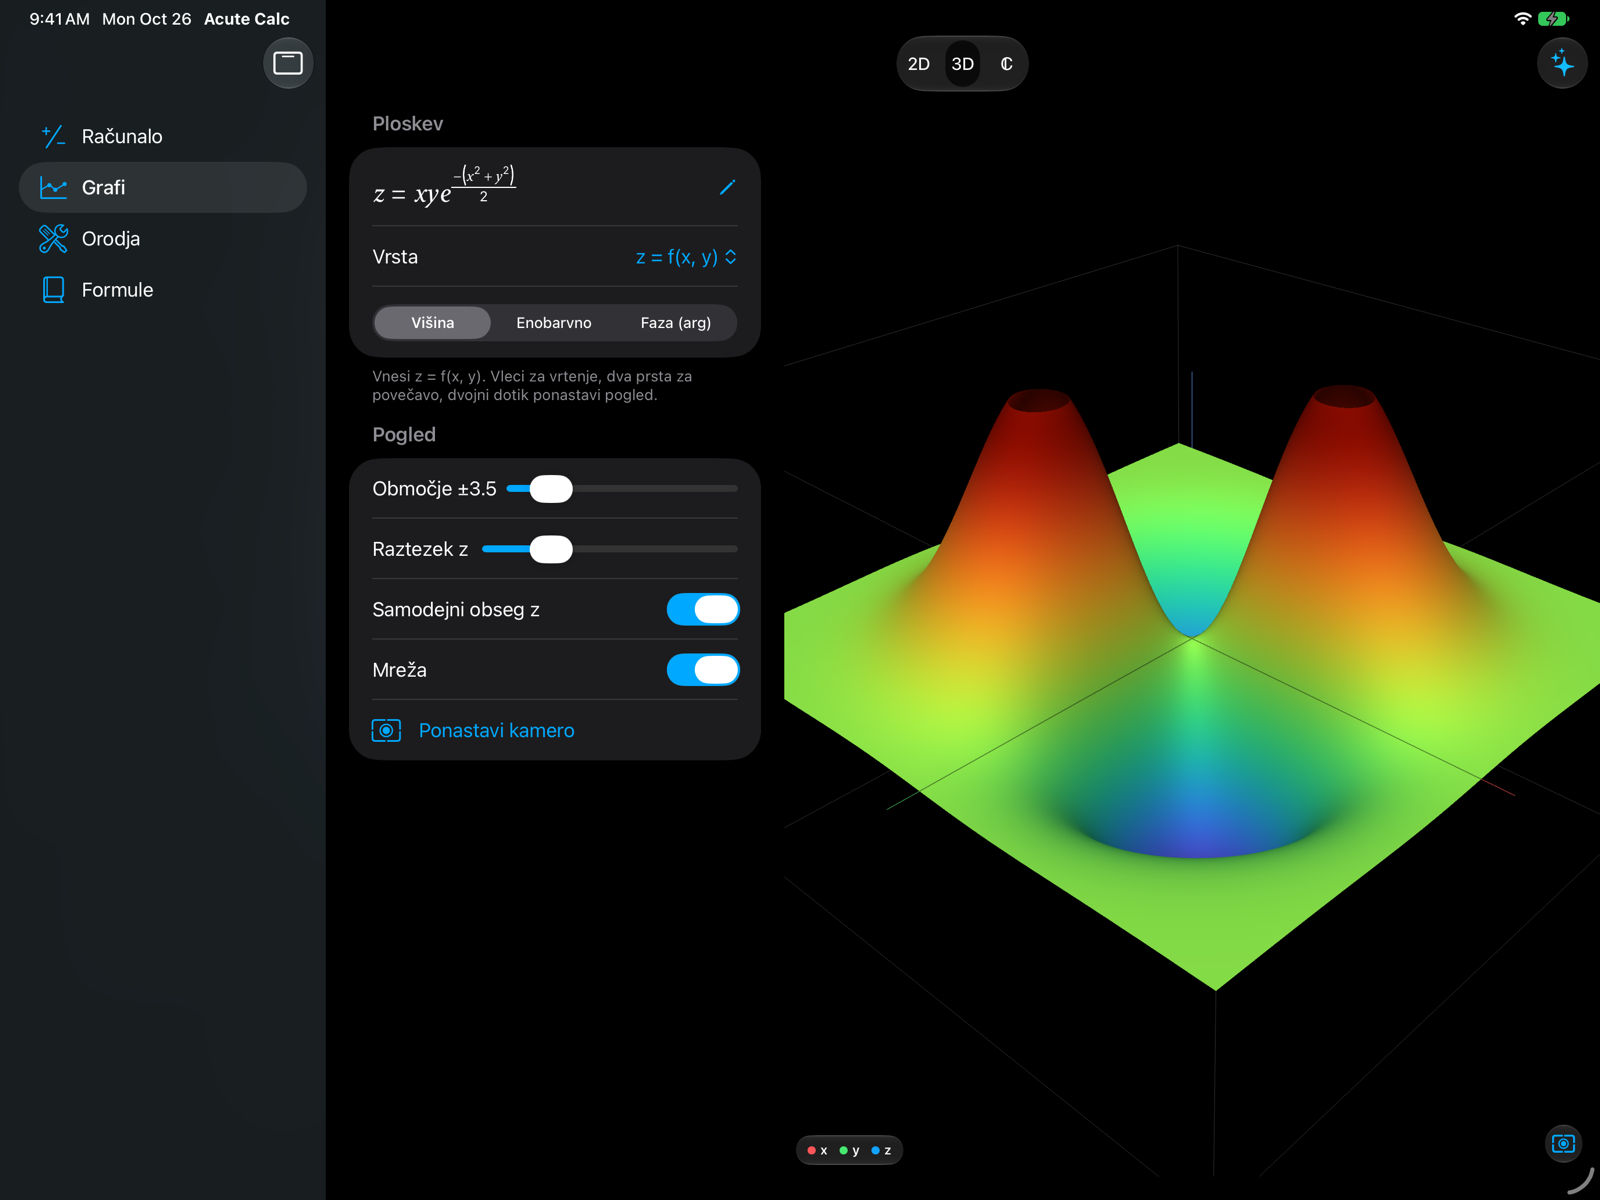
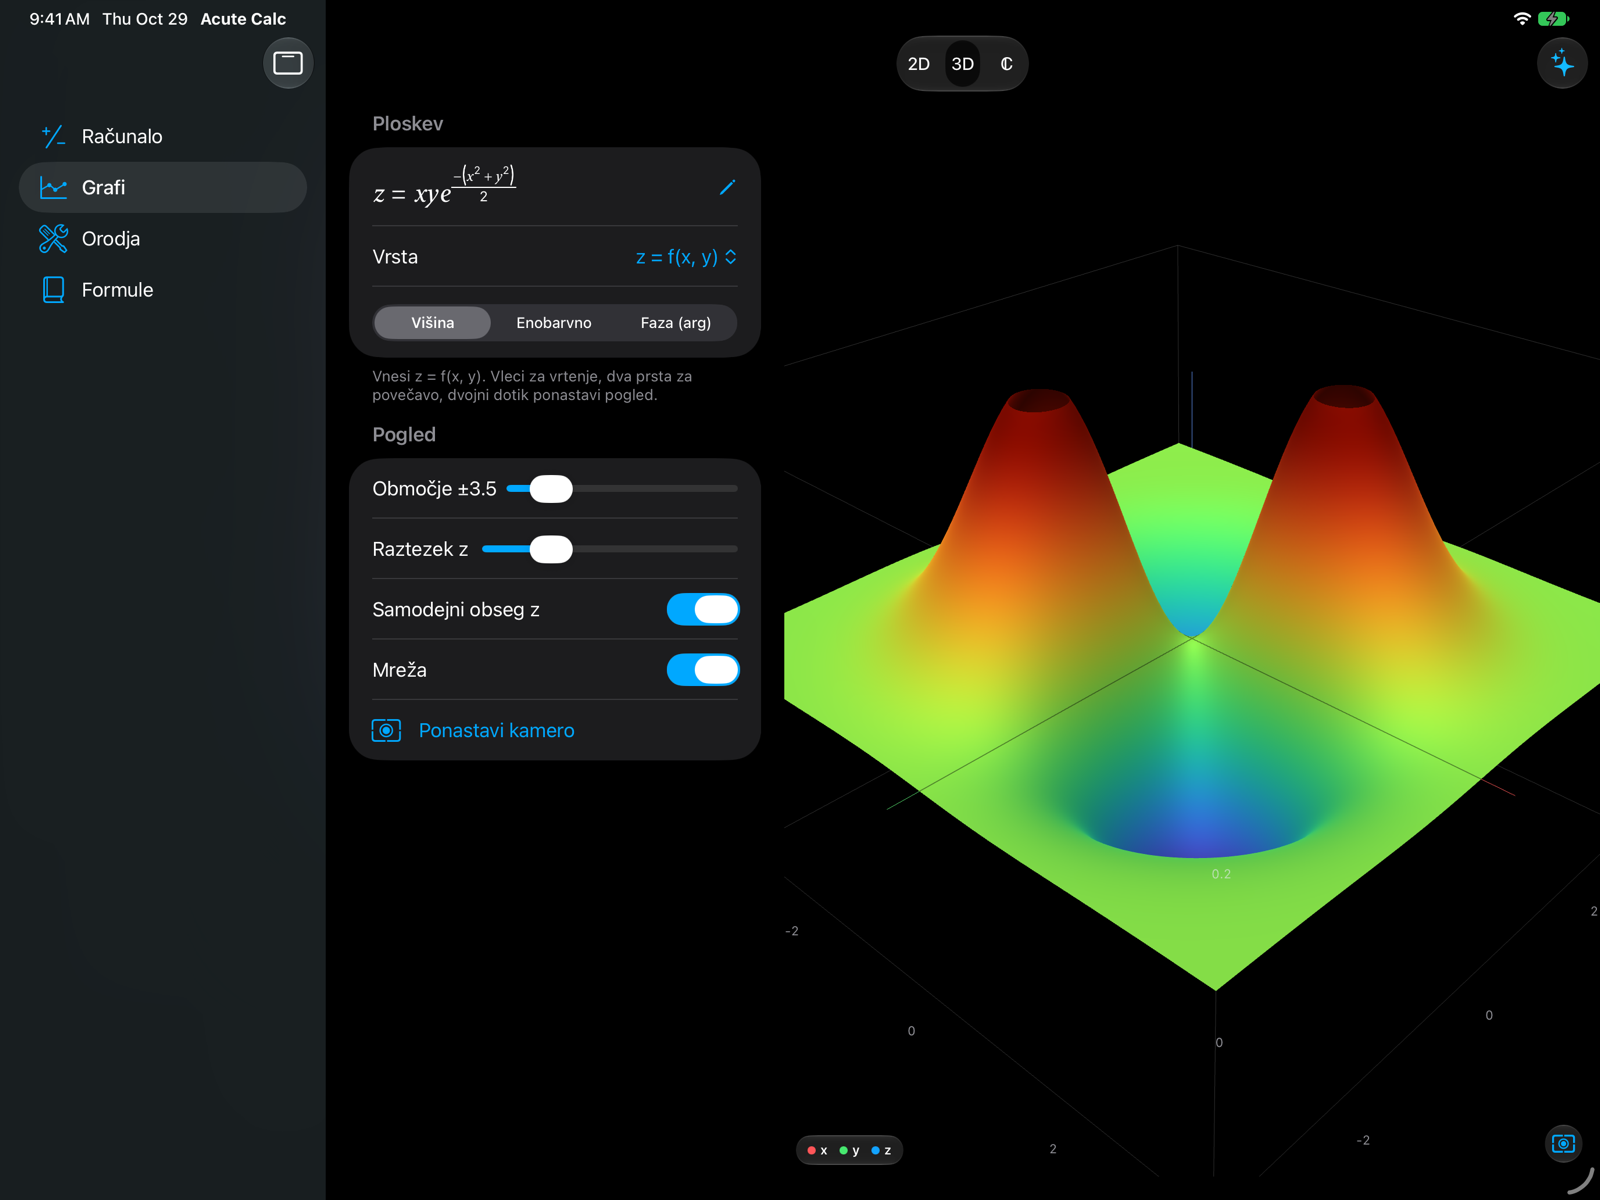
README pictures of the current calculator, 3D views, analysis and tools
The README pictures were taken on 2026-10-26 (45a618e). Five of them no
longer show the app as it is. They are replaced by the small pictures of
Screenshots run 40963513891 (iPad Pro 13-inch (M5), app at 9506663; every
shot settled and steady, no problems reported):
- calculator-dark: the graph preview now fades at its edges (c94a5df);
- surface-dark, landscape-dark: round values on the edges of the 3D box
  (c651387, a14f30a);
- analysis-dark: the dashes of f′ show, since 3f931bb carries the dash
  phase across the segments of the sampled curve;
- tools-dark: the newer subtitles of Vektorji and Premice in ravnine.

graphs-dark, graphs-light, complex-dark and formulas-dark differ only in
the status bar date or in the sidebar's selection colour, so they stay.
The 3D caption mentions the numbers on the box.

https://github.com/MarkPLacer/AcuteCalc/actions/runs/40963513891

diff --git a/README.md b/README.md
@@ -163,7 +163,8 @@ The app is in Slovenian and has four sections: **Računalo**, **Grafi**, **Orodj
 </p>
 
 <p align="center"><sub>3D: z = x·y·e^(−(x² + y²)/2) with two hills and two valleys, and the landscape |Γ(z)| over the
-complex plane, coloured by arg Γ(z); the poles at 0, −1, −2, … rise as spikes.</sub></p>
+complex plane, coloured by arg Γ(z); the poles at 0, −1, −2, … rise as spikes. Round values along
+the edges of the box give the scale.</sub></p>
 
 <img src="docs/screenshots/complex-dark.png" alt="ℂ on an iPad Pro 13-inch: the domain colouring of Γ(z), with colour wheels at the poles on the negative real axis">
 
